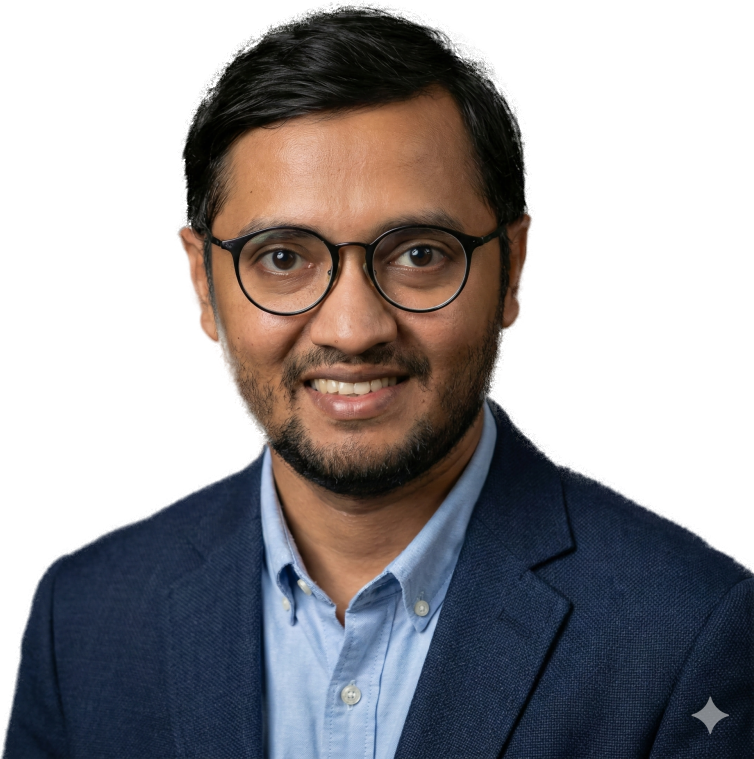
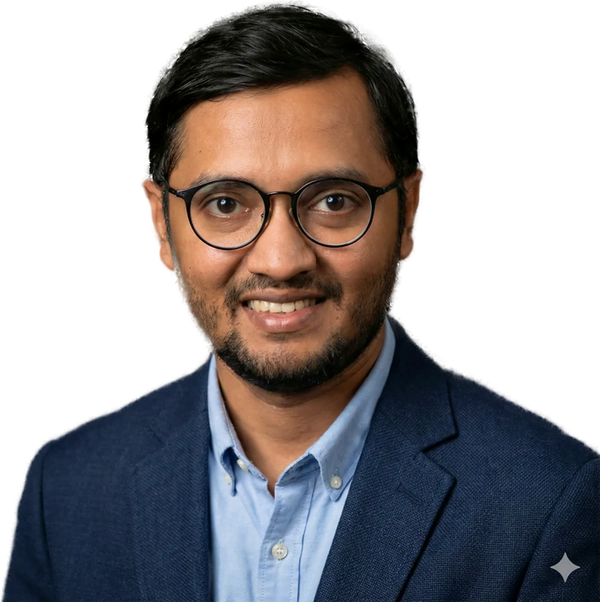
Add two submitted papers, correct Q-theory venue, retouch portrait
Add "The Price of Disagreement" (FRL) and "Consensus without Revision"
with Sifat (JBFA), plus the Avetisyan fuel-efficiency paper from Updated
Papers.txt. Correct the Q-theory paper's venue to Economics Letters after
the FRL desk rejection. Retouch and upscale the portrait with edge-aware
skin softening, and serve it as WebP with a PNG fallback.

diff --git a/publications.html b/publications.html
@@ -72,15 +72,33 @@
         </div>
         <div class="pub-card">
           <span class="badge badge-review">Under Review</span>
+          <div class="pub-title">The Price of Disagreement: Identification and Measurement of Dispersion Shocks</div>
+          <div class="pub-authors">M. Rezoanul Hoque, J. A. P&eacute;rez Amuedo &amp; Benjamin Fudali</div>
+          <div class="pub-venue">Finance Research Letters</div>
+        </div>
+        <div class="pub-card">
+          <span class="badge badge-review">Under Review</span>
+          <div class="pub-title">Consensus without Revision: Roster Turnover and the Measurement of Analyst Opinion</div>
+          <div class="pub-authors">M. Rezoanul Hoque &amp; Imtiaz Sifat</div>
+          <div class="pub-venue">Journal of Business Finance &amp; Accounting, 2026</div>
+        </div>
+        <div class="pub-card">
+          <span class="badge badge-review">Under Review</span>
           <div class="pub-title">Do Large Language Models Allocate Capital More in Line with Q-Theory Than Managers?</div>
           <div class="pub-authors">M. Rezoanul Hoque, M. M. Ferdaus &amp; M. Kabir Hassan</div>
-          <div class="pub-venue">Finance Research Letters</div>
+          <div class="pub-venue">Economics Letters</div>
         </div>
         <div class="pub-card">
           <span class="badge badge-review">Under Review</span>
           <div class="pub-title">The Limits of Flexibility: A Controlled Multi-Domain Study of Reinforcement Learning in Finance</div>
           <div class="pub-authors">M. Rezoanul Hoque, M. M. Ferdaus &amp; M. Kabir Hassan</div>
           <div class="pub-venue">International Review of Financial Analysis &middot; also presented at SWDSI 2026</div>
+        </div>
+        <div class="pub-card">
+          <span class="badge badge-review">Under Review</span>
+          <div class="pub-title">Impacts of Improved Fuel Efficiency and Trade Facilitation on Modal Choice and Emissions</div>
+          <div class="pub-authors">Misak Avetisyan &amp; M. Rezoanul Hoque</div>
+          <div class="pub-venue">Transportation Research Part A</div>
         </div>
       </section>
 

diff --git a/index.html b/index.html
@@ -76,7 +76,10 @@
         </div>
         <figure class="portrait">
           <div class="portrait-frame">
-            <img src="assets/img/portrait-cutout.png" alt="Mohammad Rezoanul Hoque" />
+            <picture>
+              <source srcset="assets/img/portrait-cutout.webp" type="image/webp" />
+              <img src="assets/img/portrait-cutout.png" alt="Mohammad Rezoanul Hoque" width="900" height="1105" />
+            </picture>
           </div>
           <figcaption>Financial economics &middot; data science &middot; New Orleans</figcaption>
         </figure>
@@ -86,7 +89,7 @@
       <section class="reveal" style="padding-top: 1.6rem;">
         <div class="stats">
           <div class="stat"><div class="value">4</div><div class="label">Published works</div></div>
-          <div class="stat"><div class="value">7</div><div class="label">Papers under review &amp; working</div></div>
+          <div class="stat"><div class="value">10</div><div class="label">Papers under review &amp; working</div></div>
           <div class="stat"><div class="value">8</div><div class="label">Conference presentations</div></div>
           <div class="stat"><div class="value">4.9<span style="font-size:1.05rem;color:var(--ink-3);">/5</span></div><div class="label">Peak teaching evaluation</div></div>
         </div>
@@ -107,6 +110,10 @@
           <div class="news-item">
             <div class="news-date">2026</div>
             <div class="news-body">"Information Conflict and CEO Insider" accepted for presentation at the <strong>SFA 2026 Annual Meeting</strong>.</div>
+          </div>
+          <div class="news-item">
+            <div class="news-date">2026</div>
+            <div class="news-body">New submissions under review: <strong>"The Price of Disagreement"</strong> (Finance Research Letters) and <strong>"Consensus without Revision"</strong> with Imtiaz Sifat (Journal of Business Finance &amp; Accounting). <a href="publications.html">See all papers &rarr;</a></div>
           </div>
           <div class="news-item">
             <div class="news-date">2026</div>

diff --git a/assets/css/style.css b/assets/css/style.css
@@ -214,8 +214,9 @@ section h2 { font-size: 1.7rem; font-weight: 600; margin-bottom: 1.5rem; }
     rgba(253, 208, 35, 0.07) 62%,
     transparent 72%);
 }
+.portrait picture { display: block; }
 .portrait img {
-  position: relative; z-index: 1; width: 100%; display: block;
+  position: relative; z-index: 1; width: 100%; height: auto; display: block;
   filter: drop-shadow(0 18px 26px rgba(32, 26, 46, 0.16));
   /* Dissolve the cropped shoulder line into the page instead of a hard edge. */
   -webkit-mask-image: linear-gradient(to bottom, #000 78%, rgba(0, 0, 0, 0.55) 92%, transparent 100%);

diff --git a/projects.html b/projects.html
@@ -95,8 +95,7 @@
             <h3>LLMs as Financial Decision-Makers</h3>
             <p>
               Benchmarking large language models against managers on capital allocation:
-              do LLMs act more in line with Q-theory? Under review at Finance Research
-              Letters.
+              do LLMs act more in line with Q-theory? Under review at Economics Letters.
             </p>
             <div class="card-links"><a href="publications.html">Related papers &rarr;</a></div>
           </div>
